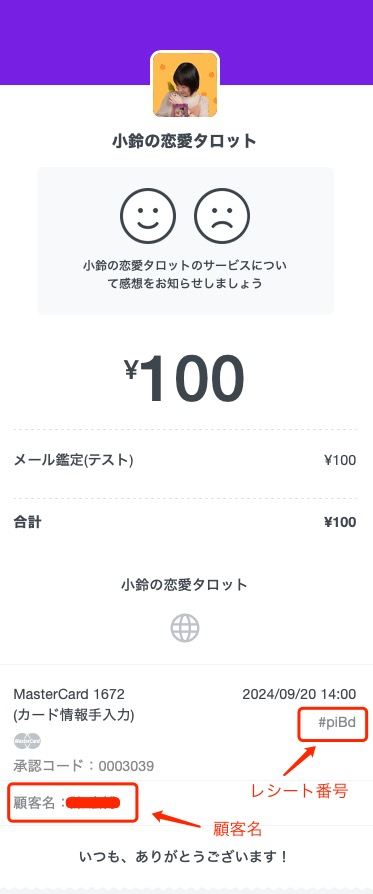
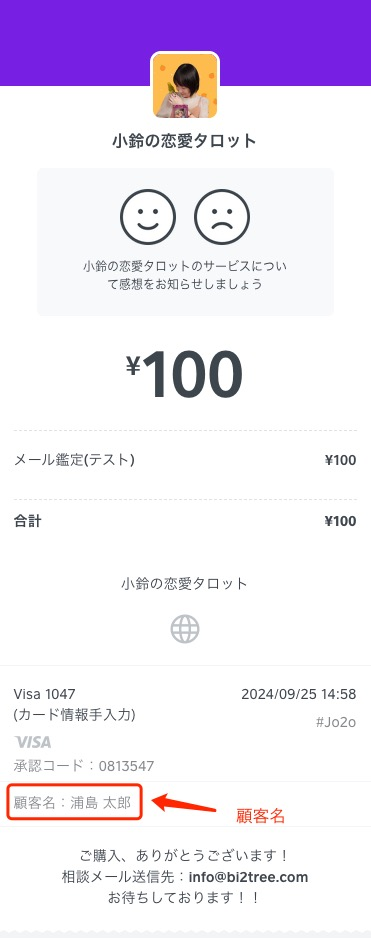
modify kosuzu 3

diff --git a/kosuzu.html b/kosuzu.html
@@ -310,10 +310,19 @@
 							<div class="sec-title_title">flow & faq</div>
 							<h2 class="sec-title_heading">メール鑑定の<span>流れ</span></h2>
 							<div class="sec-title_text">
-								<div class="step"><b>Step 1：</b>メール鑑定プランを選択し購入します。<br><br></div>
-								<div class="step"><b>Step 2：</b>ご購入完了後に、「レシート（発行: 小鈴の恋愛タロット）」メールがお届けいたします。<br><br></div>
-								<div class="step"><b>Step 3：</b>レシートまたは購入完了画面に記載してある「相談メール送信先」へ相談内容を送信します。<br><br></div>
-								<div class="step"><b>Step 4：</b>追加や訂正がございましたら、規定時間内に再送信してください。<br><br></div>
+								<div class="step"><b>Step 1：</b>メール鑑定プランを選択し、決済完了まで進んでください。<br></div>
+								<div class="step">
+									<b>Step 2：</b>ご購入完了後に、「レシート（発行: 小鈴の恋愛タロット）」メールがお届きします。
+									<div style="text-align: center"><img src="static/picture/mail.jpg"></div>
+								</div>
+								<div class="step">
+									<b>Step 3：</b>「レシート」に記載してある「相談メール送信先」宛に「顧客名」と「相談内容」をご送信ください。
+									<div style="text-align: center"><img src="static/picture/receipt-before.jpg"></div>
+								</div>
+								<div class="step">
+									<b>Step 4：</b>追加や訂正がございましたら、規定時間内に追って再送信ください。
+									<div style="text-align: center"><img src="static/picture/send-before.jpg"></div>
+								</div>
 								<div class="step"><b>Step 5：</b>鑑定結果のメール返信を待ちます。</div>
 							</div>
 						</div>

diff --git a/done.html b/done.html
@@ -164,15 +164,14 @@
 									<div style="text-align: center"><img src="static/picture/mail.jpg"></div>
 								</div>
 								<div class="step">
-									<b>Step 2：</b>「レシート」の一番下にある「顧客名：◯◯ ◯◯」と「レシート番号」をコピーします。<br>
+									<b>Step 2：</b>「レシート」の一番下にある「顧客名：◯◯ ◯◯」をメモします。<br>
 									<div style="text-align: center"><img src="static/picture/receipt.jpg"></div>
 								</div>
 								<div class="step">
-									<b>Step 3：</b>相談メール内容を編集し、件名を「顧客名：◯◯ ◯◯ & レシート番号」にしてください。<br>
+									<b>Step 3：</b>宛先を「info@bi2tree.com」、件名を「顧客名：◯◯ ◯◯」にご設定ください。<br>
 									<div style="text-align: center"><img src="static/picture/send.jpg"></div>
 								</div>
-								<div class="step"><b>Step 4：</b>相談メール編集完了後、「info@bi2tree.com」宛に送信してください。<br></div>
-								<div class="step"><b>Step 5：</b>送信完了後、ご購入プランの指定時間内に鑑定結果を返信いたします。</div>
+								<div class="step"><b>Step 4：</b>相談内容や添付ファイルをご記入の上、メールをご送信ください。<br></div>
 							</div>
 						</div>
 					</div>
